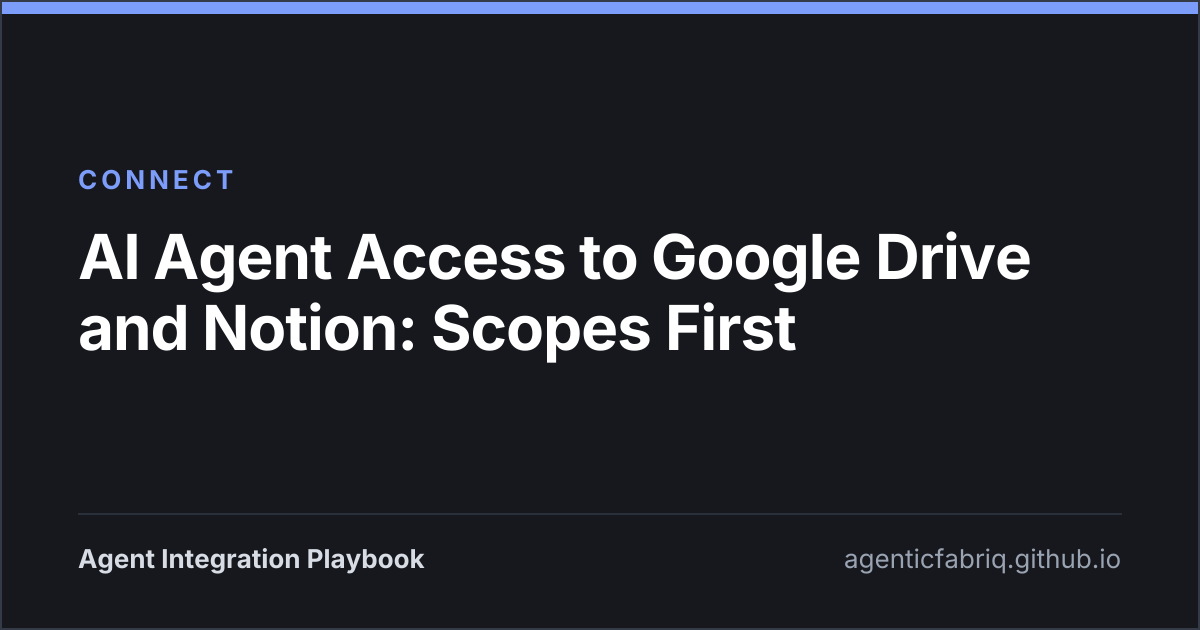
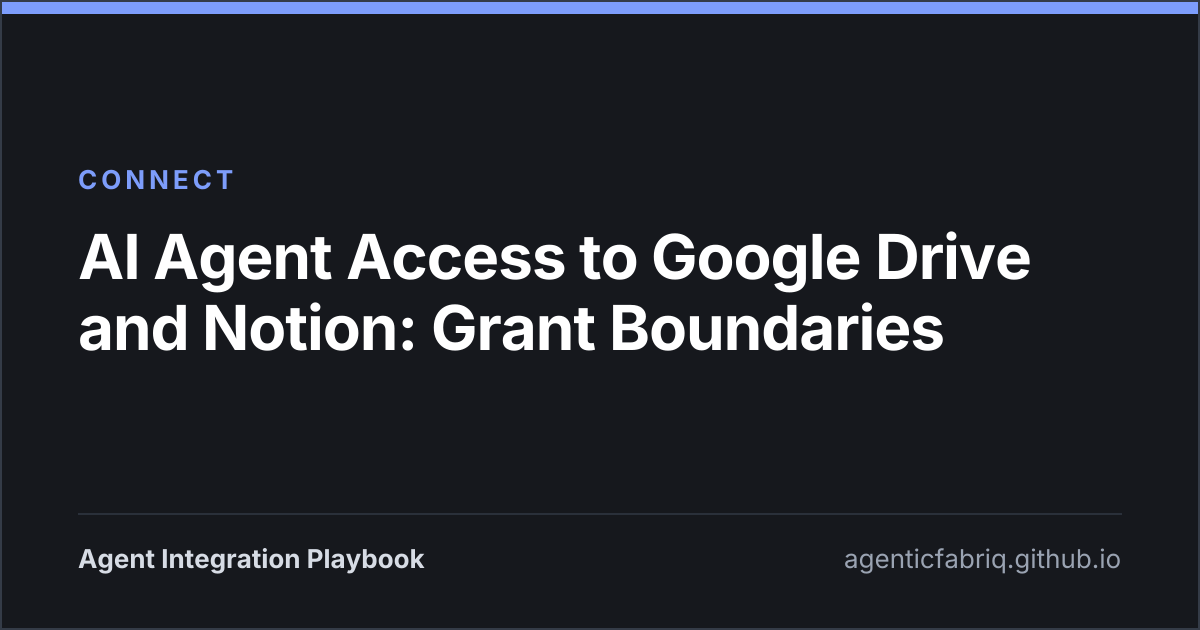
fix(seo): correct four guide titles and two colliding keywords
connect/frameworks: '...CrewAI, Agents SDK' was ambiguous as a heading.
'Per-User Credentials in LangChain, CrewAI, OpenAI Agents SDK' is exactly 60.

connect/drive-and-notion: 'Scopes First' is Drive-only advice and contradicts
the guide's own TL;DR and decision table, where the Notion row is a constraint
rather than a choice. 'Grant Boundaries' is true of both products.

connect/mcp-servers: the title had dropped the spec revision for durability but
the description still opened with it and it was still the primary keyword. Move
both off the date; it stays in the body, where it is a freshness signal.

govern/least-privilege and fail/over-scoped-oauth both targeted the
granted-minus-exercised audit query. The audit query goes to
fail/over-scoped-oauth, whose whole step-by-step is that diff;
govern/least-privilege moves to the proactive selection intent.

govern/oauth-flows: quote the only unquoted description in the collection.

Changed region(s): [[0.3392, 0.4825, 0.8017, 0.573]]

diff --git a/README.md b/README.md
@@ -36,10 +36,10 @@ did not ask for.
 - [Give an AI Agent Safe Access to Your Postgres Database](https://agenticfabriq.github.io/connect/databases/)
   — Give an agent a dedicated Postgres role, row-level security keyed to the acting user,
   statement timeouts, and parameterized tools instead of raw SQL.
-- [AI Agent Access to Google Drive and Notion: Scopes First](https://agenticfabriq.github.io/connect/drive-and-notion/)
+- [AI Agent Access to Google Drive and Notion: Grant Boundaries](https://agenticfabriq.github.io/connect/drive-and-notion/)
   — Pick drive.file over the restricted Drive scopes, put the Picker in the grant loop, and
   understand why one Notion share hands over a whole page subtree.
-- [Per-User Credentials in LangChain, CrewAI, Agents SDK](https://agenticfabriq.github.io/connect/frameworks/)
+- [Per-User Credentials in LangChain, CrewAI, OpenAI Agents SDK](https://agenticfabriq.github.io/connect/frameworks/)
   — One tool built three times in LangChain, CrewAI, and the OpenAI Agents SDK, with the
   per-user credential resolved at call time rather than at import.
 - [Give an AI Agent GitHub Access with a GitHub App](https://agenticfabriq.github.io/connect/github/)
@@ -49,8 +49,8 @@ did not ask for.
   — Pick the narrowest Gmail scope, run the PKCE consent flow, refresh tokens correctly, and
   avoid the seven-day expiry that breaks Testing-status apps.
 - [Securing an MCP Server: Authorization and Tool Scope](https://agenticfabriq.github.io/connect/mcp-servers/)
-  — What the 2026-07-28 revision changed, where authentication really sits, how to authorize
-  per tool and per argument, and the confused deputy problem.
+  — Where MCP authentication really sits, how to authorize per tool and per argument, and
+  why a server that lets the model choose the target is a confused deputy.
 - [Slack Bot Scopes and Security for an AI Agent](https://agenticfabriq.github.io/connect/slack/)
   — Which Slack bot scopes an agent needs, how to verify the request signature, Socket Mode
   versus a request URL, and the rate limits that throttle reads.

diff --git a/src/content/guides/connect/mcp-servers.md b/src/content/guides/connect/mcp-servers.md
@@ -1,10 +1,10 @@
 ---
 title: "Securing an MCP Server: Authorization and Tool Scope"
-description: "What the 2026-07-28 revision changed, where authentication really sits, how to authorize per tool and per argument, and the confused deputy problem."
+description: "Where MCP authentication really sits, how to authorize per tool and per argument, and why a server that lets the model choose the target is a confused deputy."
 pillar: connect
 updated: "2026-08-18"
 keywords:
-  - "mcp 2026-07-28 spec security"
+  - "mcp server security"
   - "mcp tool authorization per user"
   - "mcp confused deputy"
   - "mcp server/discover"

diff --git a/src/content/guides/govern/oauth-flows.md b/src/content/guides/govern/oauth-flows.md
@@ -1,6 +1,6 @@
 ---
 title: "OAuth Flows for AI Agents: The Three Grants That Matter"
-description: The three OAuth grants an AI agent actually needs, why RFC 8693 token exchange is the one most teams skip, and how to scope a downstream token down.
+description: "The three OAuth grants an AI agent actually needs, why RFC 8693 token exchange is the one most teams skip, and how to scope a downstream token down."
 pillar: govern
 updated: "2026-08-18"
 keywords:

diff --git a/src/content/guides/connect/drive-and-notion.md b/src/content/guides/connect/drive-and-notion.md
@@ -1,5 +1,5 @@
 ---
-title: "AI Agent Access to Google Drive and Notion: Scopes First"
+title: "AI Agent Access to Google Drive and Notion: Grant Boundaries"
 description: "Pick drive.file over the restricted Drive scopes, put the Picker in the grant loop, and understand why one Notion share hands over a whole page subtree."
 pillar: connect
 updated: "2026-08-18"

diff --git a/src/content/guides/connect/frameworks.md b/src/content/guides/connect/frameworks.md
@@ -1,5 +1,5 @@
 ---
-title: "Per-User Credentials in LangChain, CrewAI, Agents SDK"
+title: "Per-User Credentials in LangChain, CrewAI, OpenAI Agents SDK"
 description: "One tool built three times in LangChain, CrewAI, and the OpenAI Agents SDK, with the per-user credential resolved at call time rather than at import."
 pillar: connect
 updated: "2026-08-18"

diff --git a/src/content/guides/govern/least-privilege.md b/src/content/guides/govern/least-privilege.md
@@ -7,7 +7,7 @@ keywords:
   - "oauth scopes for ai agents"
   - "least privilege ai agent"
   - "agent tool permissions review"
-  - "unused oauth scope audit"
+  - "minimum oauth scopes for an ai agent"
 relatedGuides:
   - govern/oauth-flows
   - govern/audit
